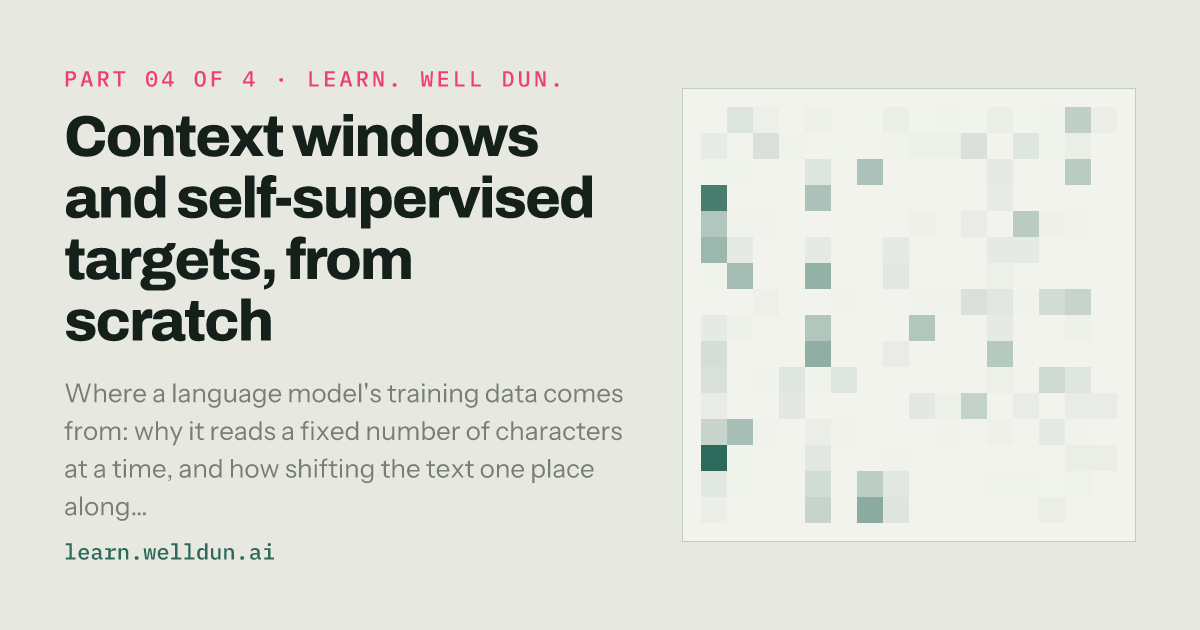
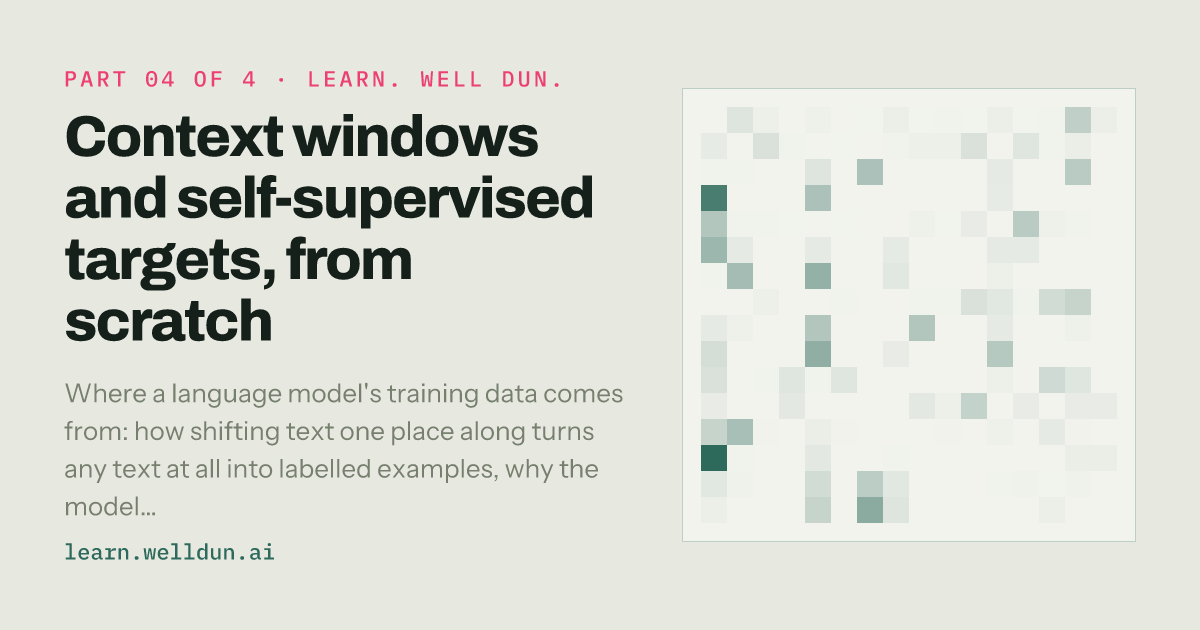
Reorder part 04 around the dataset problem
The part led with a mechanical constraint — inputs must be a fixed size — which
is true, dull, and not why anyone is here. It now leads with the thing that
actually blocks progress: everything from here on has to be trained, training
needs a dataset, and there is nobody to make one.

The other tutorial does the work of making that felt. You drew each character
and then said which one it was, so a few dozen examples cost an afternoon. A
language model needs thousands of times more and there is nothing to draw. That
is a real wall, and shift-by-one is the way through it rather than a trick
introduced for its own sake.

Only then does the fixed size arrive, and it arrives as a question the reader
has already asked with their own hands: you just chose a number with that
slider, and here is why the model needs it chosen once. Matrix shapes are named
as the reason, since that is what actually forces it. Then batches, then the
two off-by-ones, then the code.

The figure's slider no longer says "window" — it now precedes the section that
introduces the term, so its controls use ordinary words and the prose does the
naming.

Changed region(s): [[0.0617, 0.6635, 0.5242, 0.7841], [0.0617, 0.7841, 0.1233, 0.8444]]

diff --git a/src/components/ContextWindow.tsx b/src/components/ContextWindow.tsx
@@ -47,8 +47,11 @@ export function ContextWindow() {
 
       <div className="mt-6 flex flex-wrap gap-x-10 gap-y-4">
         <label className="min-w-[12rem] flex-1">
+          {/* Not "window". The figure now comes before the section that
+              introduces the term, so its controls use ordinary words and let
+              the prose do the naming. */}
           <span className="mono-note text-graphite">
-            window: {block} character{block === 1 ? "" : "s"}
+            {block} character{block === 1 ? "" : "s"} at a time
           </span>
           <input
             type="range"
@@ -61,7 +64,7 @@ export function ContextWindow() {
               setStart((s) => Math.min(s, TEXT.length - next - 1));
             }}
             className="mt-2 w-full accent-riso"
-            aria-label="Context window size"
+            aria-label="How many characters the model sees at a time"
           />
         </label>
         <label className="min-w-[12rem] flex-1">
